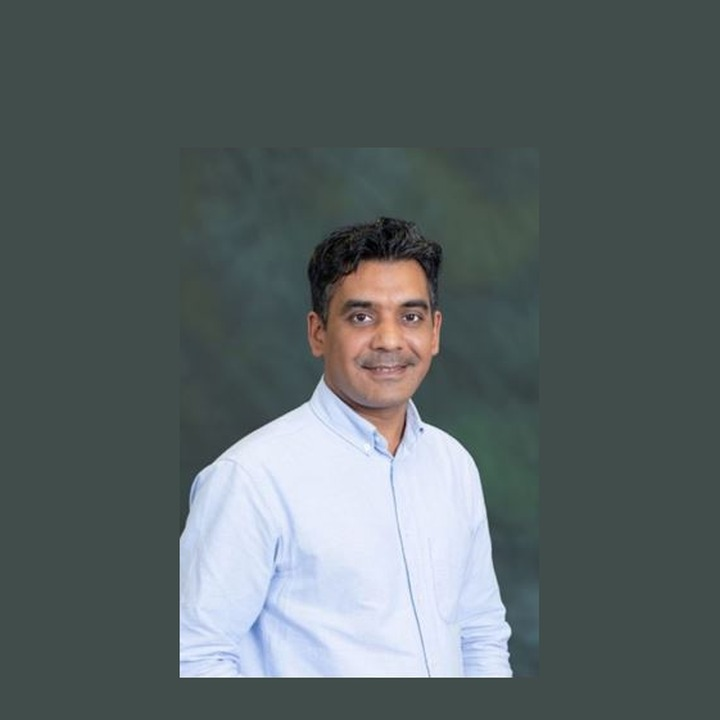
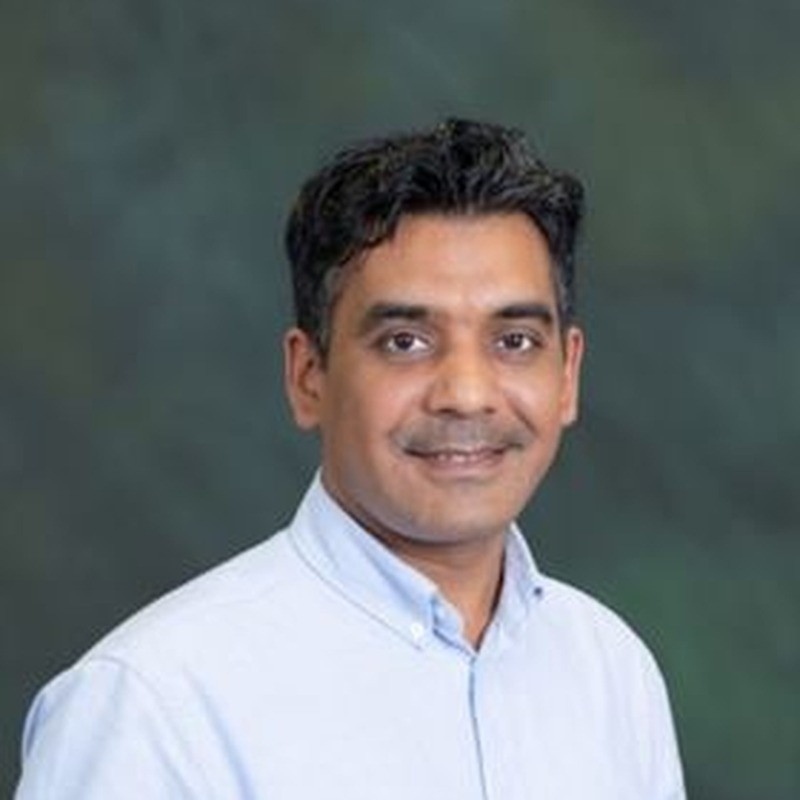
Fix profile photo to fill the circular frame edge to edge.

diff --git a/index.html b/index.html
@@ -13,7 +13,7 @@
 <link rel="icon" href="assets/favicon.svg?v=themeblue" type="image/svg+xml">
 <link rel="icon" href="assets/favicon.png?v=themeblue" type="image/png" sizes="32x32">
 <link rel="apple-touch-icon" href="assets/apple-touch-icon.png?v=themeblue">
-<link rel="stylesheet" href="styles.css?v=photo3">
+<link rel="stylesheet" href="styles.css?v=photo4">
 <script>
   (function () {
     try {
@@ -180,7 +180,7 @@
   </div>
 </footer>
 
-<script src="data.js?v=photo3"></script>
-<script src="script.js?v=photo3"></script>
+<script src="data.js?v=photo4"></script>
+<script src="script.js?v=photo4"></script>
 </body>
 </html>

diff --git a/data-code.html b/data-code.html
@@ -8,7 +8,7 @@
 <link rel="icon" href="assets/favicon.svg?v=themeblue" type="image/svg+xml">
 <link rel="icon" href="assets/favicon.png?v=themeblue" type="image/png" sizes="32x32">
 <link rel="apple-touch-icon" href="assets/apple-touch-icon.png?v=themeblue">
-<link rel="stylesheet" href="styles.css?v=photo3">
+<link rel="stylesheet" href="styles.css?v=photo4">
 <script>
   (function () {
     try {
@@ -143,7 +143,7 @@
   </div>
 </footer>
 
-<script src="data.js?v=photo3"></script>
-<script src="script.js?v=photo3"></script>
+<script src="data.js?v=photo4"></script>
+<script src="script.js?v=photo4"></script>
 </body>
 </html>

diff --git a/field.html b/field.html
@@ -8,7 +8,7 @@
 <link rel="icon" href="assets/favicon.svg?v=themeblue" type="image/svg+xml">
 <link rel="icon" href="assets/favicon.png?v=themeblue" type="image/png" sizes="32x32">
 <link rel="apple-touch-icon" href="assets/apple-touch-icon.png?v=themeblue">
-<link rel="stylesheet" href="styles.css?v=photo3">
+<link rel="stylesheet" href="styles.css?v=photo4">
 <script>
   (function () {
     try {
@@ -128,7 +128,7 @@
   </div>
 </footer>
 
-<script src="data.js?v=photo3"></script>
-<script src="script.js?v=photo3"></script>
+<script src="data.js?v=photo4"></script>
+<script src="script.js?v=photo4"></script>
 </body>
 </html>

diff --git a/funded.html b/funded.html
@@ -8,7 +8,7 @@
 <link rel="icon" href="assets/favicon.svg?v=themeblue" type="image/svg+xml">
 <link rel="icon" href="assets/favicon.png?v=themeblue" type="image/png" sizes="32x32">
 <link rel="apple-touch-icon" href="assets/apple-touch-icon.png?v=themeblue">
-<link rel="stylesheet" href="styles.css?v=photo3">
+<link rel="stylesheet" href="styles.css?v=photo4">
 <script>
   (function () {
     try {
@@ -135,7 +135,7 @@
   </div>
 </footer>
 
-<script src="data.js?v=photo3"></script>
-<script src="script.js?v=photo3"></script>
+<script src="data.js?v=photo4"></script>
+<script src="script.js?v=photo4"></script>
 </body>
 </html>

diff --git a/outputs.html b/outputs.html
@@ -8,7 +8,7 @@
 <link rel="icon" href="assets/favicon.svg?v=themeblue" type="image/svg+xml">
 <link rel="icon" href="assets/favicon.png?v=themeblue" type="image/png" sizes="32x32">
 <link rel="apple-touch-icon" href="assets/apple-touch-icon.png?v=themeblue">
-<link rel="stylesheet" href="styles.css?v=photo3">
+<link rel="stylesheet" href="styles.css?v=photo4">
 <script>
   (function () {
     try {
@@ -142,7 +142,7 @@
   </div>
 </footer>
 
-<script src="data.js?v=photo3"></script>
-<script src="script.js?v=photo3"></script>
+<script src="data.js?v=photo4"></script>
+<script src="script.js?v=photo4"></script>
 </body>
 </html>

diff --git a/recognition.html b/recognition.html
@@ -8,7 +8,7 @@
 <link rel="icon" href="assets/favicon.svg?v=themeblue" type="image/svg+xml">
 <link rel="icon" href="assets/favicon.png?v=themeblue" type="image/png" sizes="32x32">
 <link rel="apple-touch-icon" href="assets/apple-touch-icon.png?v=themeblue">
-<link rel="stylesheet" href="styles.css?v=photo3">
+<link rel="stylesheet" href="styles.css?v=photo4">
 <script>
   (function () {
     try {
@@ -134,7 +134,7 @@
   </div>
 </footer>
 
-<script src="data.js?v=photo3"></script>
-<script src="script.js?v=photo3"></script>
+<script src="data.js?v=photo4"></script>
+<script src="script.js?v=photo4"></script>
 </body>
 </html>

diff --git a/service.html b/service.html
@@ -8,7 +8,7 @@
 <link rel="icon" href="assets/favicon.svg?v=themeblue" type="image/svg+xml">
 <link rel="icon" href="assets/favicon.png?v=themeblue" type="image/png" sizes="32x32">
 <link rel="apple-touch-icon" href="assets/apple-touch-icon.png?v=themeblue">
-<link rel="stylesheet" href="styles.css?v=photo3">
+<link rel="stylesheet" href="styles.css?v=photo4">
 <script>
   (function () {
     try {
@@ -129,7 +129,7 @@
   </div>
 </footer>
 
-<script src="data.js?v=photo3"></script>
-<script src="script.js?v=photo3"></script>
+<script src="data.js?v=photo4"></script>
+<script src="script.js?v=photo4"></script>
 </body>
 </html>

diff --git a/supervision.html b/supervision.html
@@ -8,7 +8,7 @@
 <link rel="icon" href="assets/favicon.svg?v=themeblue" type="image/svg+xml">
 <link rel="icon" href="assets/favicon.png?v=themeblue" type="image/png" sizes="32x32">
 <link rel="apple-touch-icon" href="assets/apple-touch-icon.png?v=themeblue">
-<link rel="stylesheet" href="styles.css?v=photo3">
+<link rel="stylesheet" href="styles.css?v=photo4">
 <script>
   (function () {
     try {
@@ -140,7 +140,7 @@
   </div>
 </footer>
 
-<script src="data.js?v=photo3"></script>
-<script src="script.js?v=photo3"></script>
+<script src="data.js?v=photo4"></script>
+<script src="script.js?v=photo4"></script>
 </body>
 </html>

diff --git a/styles.css b/styles.css
@@ -306,7 +306,7 @@ a:hover { opacity: .75; }
   height: 100%;
   display: block;
   object-fit: cover;
-  object-position: center 28%;
+  object-position: center 22%;
 }
 
 .profile-sidebar__eyebrow {
